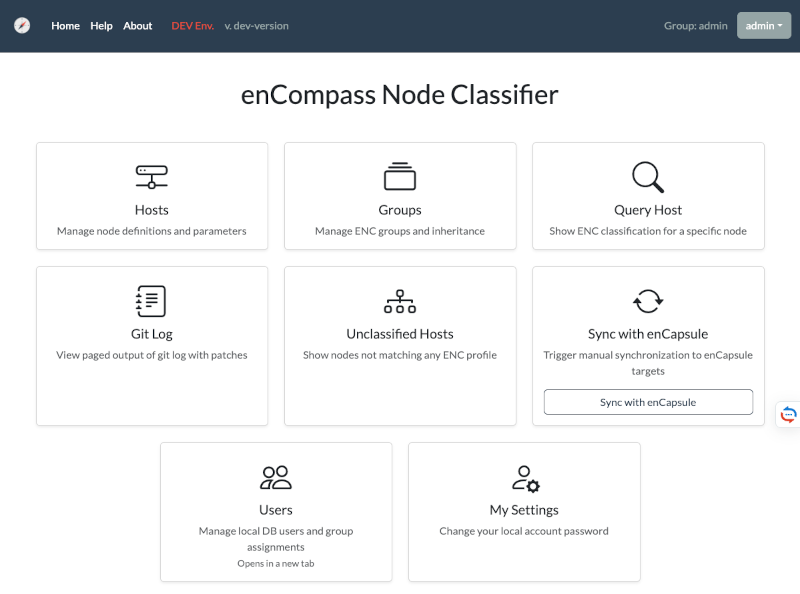
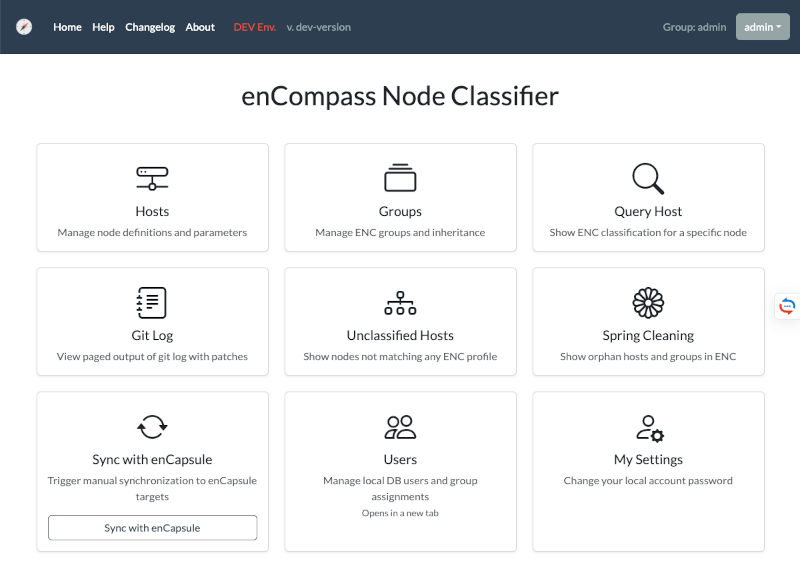
doc: update screenshot

diff --git a/CHANGELOG.md b/CHANGELOG.md
@@ -1,5 +1,10 @@
 ## [unreleased]
 
+### 📚 Documentation
+
+- Doc: update screenshot
+## [0.7.3] - 2026-02-28
+
 ### 🚀 Features
 
 - Feat(ui): add Spring Cleaning page and home card
@@ -11,6 +16,10 @@ add dashboard card linking to the new page
 ### 📚 Documentation
 
 - Doc: add SEO message to index the repo in the search engines
+
+### ⚙ Miscellaneous Tasks
+
+- Chore(release): update changelog for 0.7.3
 ## [0.7.2] - 2026-02-27
 
 ### 💼 Other
